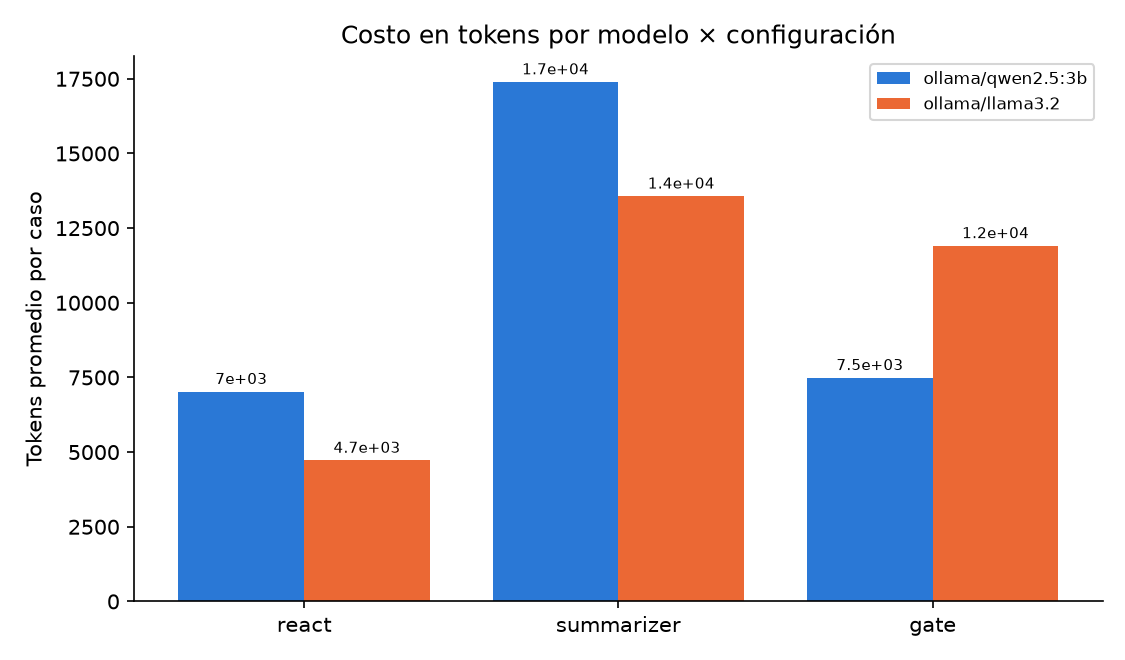
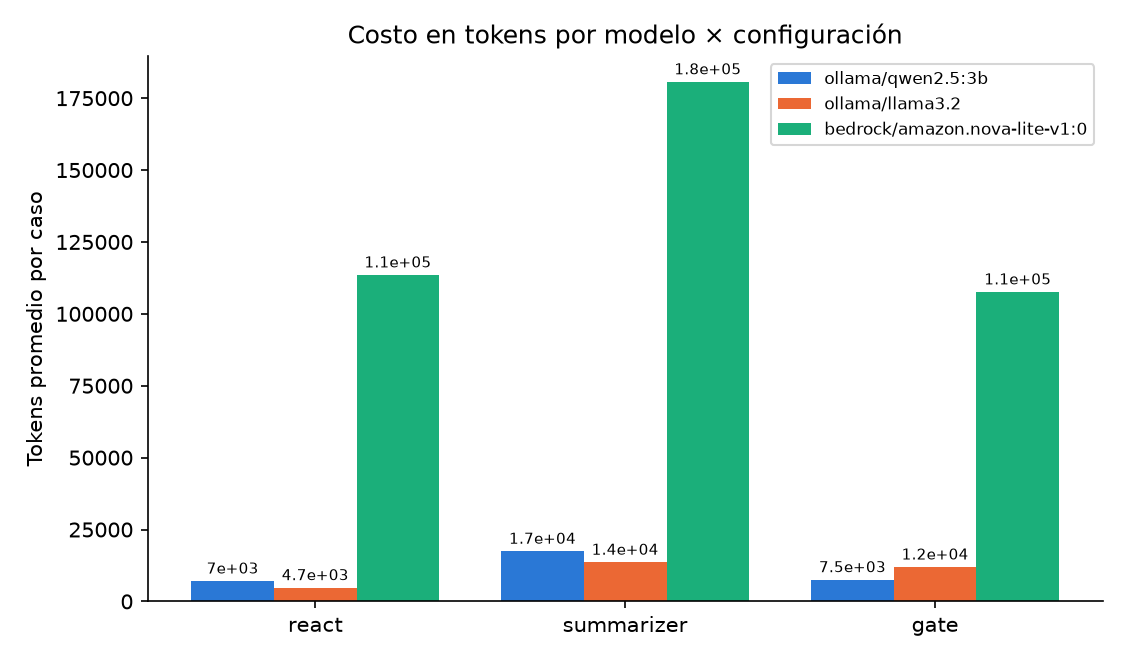
docs(m3): §5.1 escaleras de ablación del eje modelo + gráficos con datos reales
GRÁFICOS (12 regenerados sobre la corrida limpia de Bedrock):
- generar_graficos_m3.py: latencia, fallos, costo, tools, redundancia,
  heatmap, judge — todos con accuracy real en vez de ceros.
- comparar_modelos_m3.py: 3 modelos (qwen2.5:3b, llama3.2, nova-lite).
  react_generico queda fuera del cross-modelo a propósito: solo existe
  en Bedrock, no hay con qué compararla.

§5.1 — un cambio por vez:
Entre qwen2.5:3b (0/24) y nova-lite (0.792) cambian CUATRO variables a
la vez: tamaño, cuantización, familia y API. Eso autoriza a afirmar
"el techo es del modelo" pero NO "el techo es del tamaño" — no sabemos
cuánto del 0/24 es capacidad base y cuánto es degradación por Q4_K_M,
que golpea justo en tool-calling y structured output. El informe no
mencionaba la cuantización en ningún lado.

Se documentan dos escaleras de una sola variable:
  A) capacidad (Bedrock): nova-micro $0.44 → nova-lite (hecha) →
     nova-pro $2.25 solo brazo react. Responde si la curva se aplana:
     si pro apenas mejora sobre lite, el cuello vuelve a ser el
     framework.
  B) tamaño (Ollama, Q4 constante): qwen2.5:3b (hecha) → 7b → 14b.
  + control de cuantización: 3b sin cuantizar vs 3b Q4.

La B y el control corren local sin lease, así que avanzan en paralelo
por quien no lo tenga aprobado.

FIX: el judge se recomendaba con `us.amazon.nova-pro-v1:0` en 3 lugares.
Ese prefijo es un inference profile cross-region que rutea a us-west-2,
[…]

diff --git a/INFORME_M3.md b/INFORME_M3.md
@@ -655,7 +655,7 @@ lease de AWS y el `.env` apuntando a Bedrock (`BEDROCK_MODEL_ID`, `AWS_PROFILE`,
    Es lo que saca la κ de ≈0 y valida (o no) los puntajes del judge:
    ```bash
    python eval/judge.py eval/results/<ts>/cases.jsonl \
-     --judge-provider bedrock --judge-model us.amazon.nova-pro-v1:0
+     --judge-provider bedrock --judge-model amazon.nova-pro-v1:0
    python eval/kappa.py  eval/results/<ts>/cases.jsonl   # o sobre eval/golden/
    ```
 3. **Barridos de hiperparámetros** (ahora expuestos): tope de iteraciones y
@@ -673,7 +673,7 @@ lease de AWS y el `.env` apuntando a Bedrock (`BEDROCK_MODEL_ID`, `AWS_PROFILE`,
 5. **Reproducir el hallazgo del judge** (opcional): el modo per-criterio (4.4) con
    un judge fuerte, para ver si con `nova-pro` **sí** funciona (a diferencia del
    local): `python eval/judge.py … --judge-provider bedrock --judge-model
-   us.amazon.nova-pro-v1:0 --per-criterion`.
+   amazon.nova-pro-v1:0 --per-criterion`.
 
 Y sobre esos resultados, lo que **construiríamos** después:
 
@@ -699,6 +699,67 @@ Y sobre esos resultados, lo que **construiríamos** después:
    **semántica** (hechos persistentes del mundo) permitiría transferir
    aprendizaje entre corridas, hoy imposible porque el estado vive solo en el
    proceso.
+
+### 5.1 Aislar el eje del modelo: un cambio por vez
+
+El salto de `qwen2.5:3b` (0/24) a `nova-lite` (0.792) demuestra que **el techo
+era del modelo y no del framework** —mismo código, mismo prompt `escape-v1`,
+mismo commit, mismo dataset—. Pero entre esos dos puntos cambian **cuatro
+variables a la vez**: tamaño, cuantización, familia de entrenamiento y API.
+
+Por eso la comparación autoriza a decir *"el techo es del modelo"* y **no**
+autoriza a decir *"el techo es del tamaño"*: no sabemos cuánto del 0/24 es
+capacidad del modelo base y cuánto es degradación por correrlo en **Q4_K_M**
+(4 bits), que golpea justamente donde estos modelos fallan —la disciplina de
+tool-calling y el structured output—.
+
+Para cerrarlo hacen falta dos escaleras, cada una moviendo **una sola
+variable**:
+
+**Escalera A — capacidad** (Bedrock; familia, API y tratamiento constantes):
+
+| Modelo | Costo de la corrida completa |
+|---|---:|
+| `amazon.nova-micro-v1:0` | $0.44 |
+| `amazon.nova-lite-v1:0` | $0.75 — **ya corrida (0.792)** |
+| `amazon.nova-pro-v1:0` | $10.00 completa · **$2.25 solo brazo `react`** |
+
+```bash
+python eval/run.py --repeats 3   # con BEDROCK_MODEL_ID=amazon.nova-micro-v1:0
+python eval/run.py --configs react --repeats 3   # con ...=amazon.nova-pro-v1:0
+```
+
+`nova-pro` como agente solo se corre sobre `react`: los otros tres brazos ya
+están medidos con `nova-lite`, que es donde se compara la **arquitectura**. La
+pregunta que responde esta escalera es si la curva **se aplana**: si `nova-pro`
+apenas mejora sobre `nova-lite`, el cuello de botella deja de ser el modelo y
+vuelve a ser el framework.
+
+**Escalera B — tamaño** (Ollama; cuantización Q4_K_M constante):
+
+| Modelo | Parámetros | Estado |
+|---|---:|---|
+| `qwen2.5:3b` | 3.1B | **ya corrida (0/24)** |
+| `qwen2.5:7b` | 7B | pendiente |
+| `qwen2.5:14b` | 14B | pendiente (según RAM disponible) |
+
+```bash
+ollama pull qwen2.5:7b
+OLLAMA_HOST=http://localhost:11434 OLLAMA_MODEL=qwen2.5:7b \
+  python eval/run.py --repeats 3
+```
+
+**Control de cuantización** (tamaño constante en 3B): correr `qwen2.5:3b` sin
+cuantizar contra el mismo modelo en Q4_K_M. Separa "el modelo es chico" de "lo
+comprimimos a 4 bits".
+
+Las corridas se suman solas a la comparación cross-modelo: `summary.json`
+versiona `provider`/`model` en su meta y `scripts/comparar_modelos_m3.py`
+agrupa por esa clave (§3.5).
+
+**Reparto del trabajo.** La escalera A requiere lease de AWS; la B y el control
+de cuantización corren **local y sin lease**, así que pueden avanzar en
+paralelo por quien no lo tenga aprobado todavía.
 
 ---
 
@@ -728,7 +789,7 @@ python eval/kappa.py  eval/golden/cases.jsonl
 
 # Judge FUERTE del próximo paso #1 (nova-pro juzgando a nova-lite, requiere Bedrock)
 python eval/judge.py eval/golden/cases.jsonl \
-  --judge-provider bedrock --judge-model us.amazon.nova-pro-v1:0
+  --judge-provider bedrock --judge-model amazon.nova-pro-v1:0
 python eval/kappa.py  eval/golden/cases.jsonl
 
 # Reproducir el hallazgo: el modo per-criterio (4.4) colapsa con judge débil
